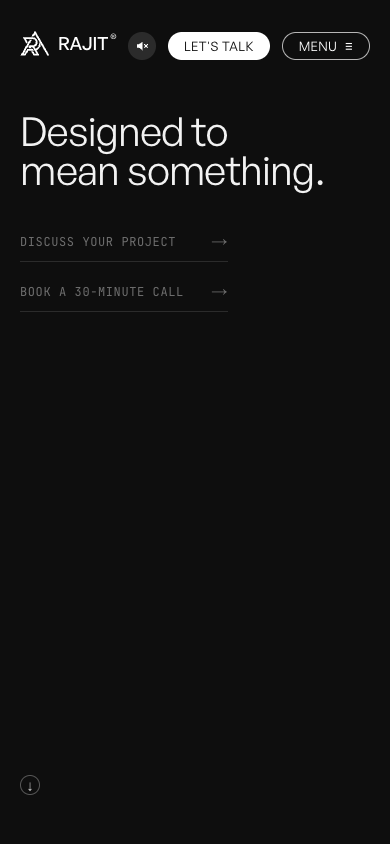
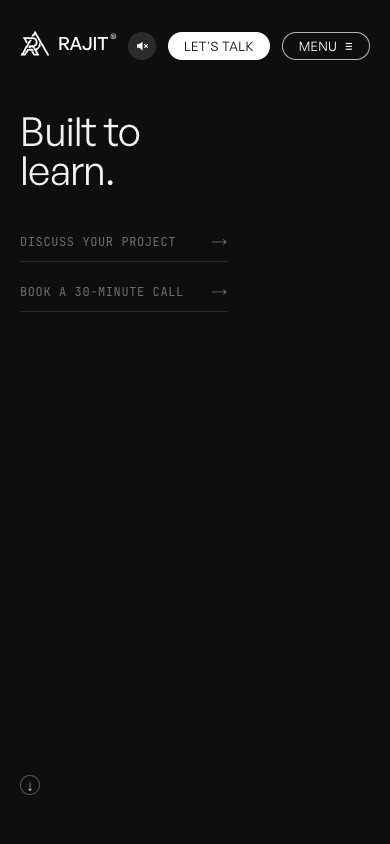
hero: replace the headline cycle with "Built to learn / experiment / evolve"
The owner supplied two candidate sets. Picked "Built to" over "Curious
about" on a measurable grounds: the cycling phrase is one block line, and
set 1's "what happens when you try" is 471px against 390px available at
430px viewport and 335px at 375px. Only that one of its three phrases
wraps, so on mobile the headline would grow to two lines and snap back
every 3s as it cycled — the layout jumping on a loop. Set 2's longest is
397px at desktop and 209px at mobile, clear everywhere.

Set 2 also keeps punctuation consistent (set 1's third phrase has no full
stop) and suits the per-glyph blur stagger, which reads sharper on short
words than across a 25-character phrase.

Verified the mechanism is untouched: all three states cycle and the h1
measures a constant 149px through the loop, so nothing reflows.

Changed region(s): [[0.0615, 0.1232, 0.8, 0.2464]]

diff --git a/src/data/site.ts b/src/data/site.ts
@@ -17,8 +17,8 @@ export const site = {
 
   hero: {
     /** Static prefix + the words that cycle (A03). */
-    prefix: "Designed to",
-    cycle: ["mean something.", "feel effortless.", "ship fast."], // TODO confirm
+    prefix: "Built to",
+    cycle: ["learn.", "experiment.", "evolve."],
     badge: { left: "EST. 2021", right: "5+ YEARS BUILDING FOR THE WEB." }, // TODO confirm
     blurb:
       "Interfaces, products and systems built for clarity, scale and impact.", // TODO confirm
